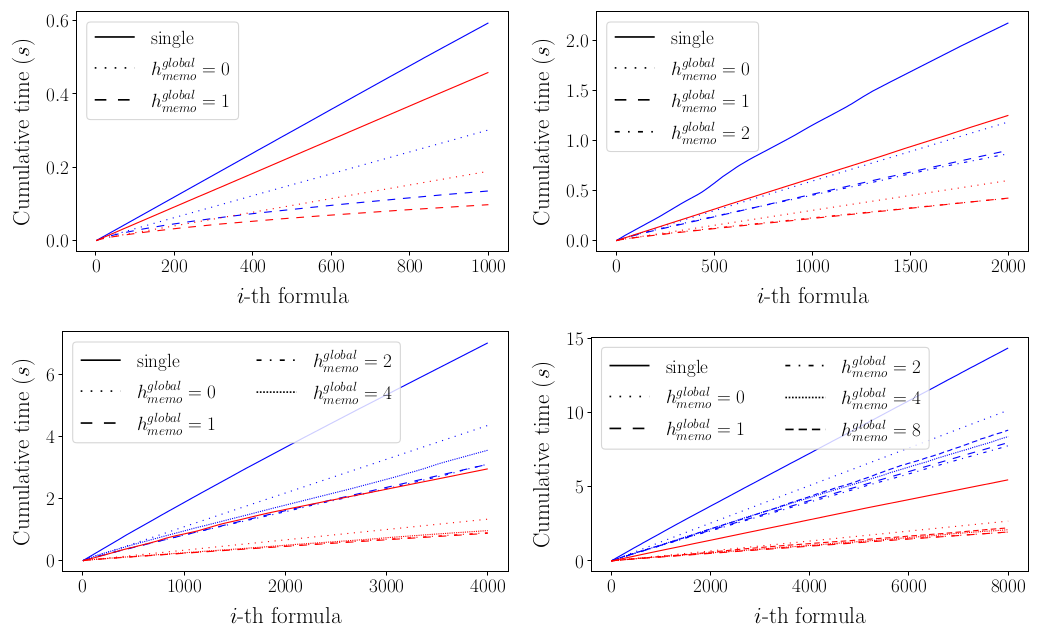
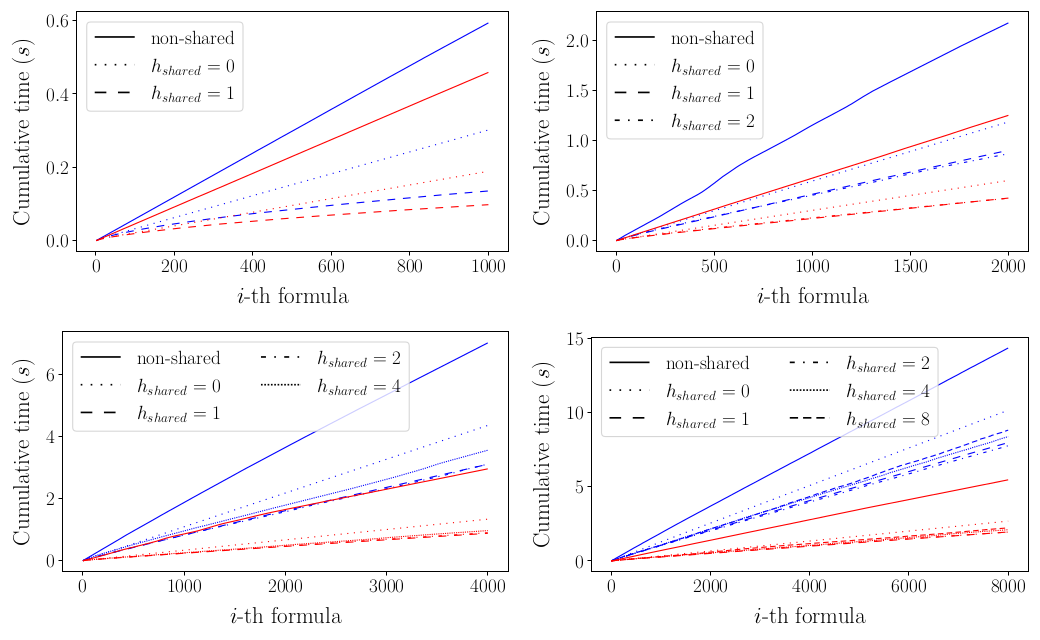
Minor changes

diff --git a/outcomes/csv/plotter.py b/outcomes/csv/plotter.py
@@ -43,7 +43,7 @@ colors = ['b', 'r', 'c', 'm', 'y', 'k']
 ###########################################################
 #                        Plotting                         #
 ###########################################################
-def export_plot(data, x, n_pr, linestyles, colors, memo_values, prun_values, export_name, legend_ncol):
+def export_plot(data, n_formulas, n_pr, linestyles, colors, memo_values, prun_values, export_name, legend_ncol):
     plt.figure(figsize=(6.5, 4), dpi=80)
     
     # For each pruning factor (thus, for each specified csv)
@@ -55,7 +55,7 @@ def export_plot(data, x, n_pr, linestyles, colors, memo_values, prun_values, exp
             # Draw a line representing the cumulated time 
             # to model-checking until some n-th formula
             plt.plot(
-                np.linspace(1,ncols,x),
+                np.linspace(1,ncols,n_formulas),
                 data[i].cumsum(axis=1)[row],
                 linestyle=linestyles[row][1],
                 color=colors[i],
@@ -79,13 +79,13 @@ def export_plot(data, x, n_pr, linestyles, colors, memo_values, prun_values, exp
 #                           Main                          #
 ###########################################################
 if __name__ == '__main__':
-    memo_values = ["single", "${}$".format("h_{memo}^{global}=0"), "${}$".format("h_{memo}^{global}=1"), "${}$".format("h_{memo}^{global}=2"), "${}$".format("h_{memo}^{global}=4"), "${}$".format("h_{memo}^{global}=8")]
+    memo_values = ["non-shared", "${}$".format("h_{shared}=0"), "${}$".format("h_{shared}=1"), "${}$".format("h_{shared}=2"), "${}$".format("h_{shared}=4"), "${}$".format("h_{shared}=8")]
     prun_values  = ["0.2", "0.5"]
 
-    export_name = "Insert filename here, including the extension (e.g .png or .pgf)"
-    x = 1000
-    first_set  = "50_16_1/50.0_20.0_16.0_1.0_1000.0_0.2_1000.0_1.0.csv" #csv with 0.2 pruning factor
-    second_set = "50_16_1/50.0_20.0_16.0_1.0_1000.0_0.5_1000.0_1.0.csv" #csv with 0.5 pruning factor
+    export_name = "INSERT FILENAME HERE (including the extension, e.g .png or .pgf)"
+    n_formulas = 1000 
+    first_set  = "50_16_1/50.0_20.0_16.0_1.0_1000.0_0.2_1000.0_1.0.csv" # csv with 0.2 pruning factor
+    second_set = "50_16_1/50.0_20.0_16.0_1.0_1000.0_0.5_1000.0_1.0.csv" # csv with 0.5 pruning factor
     data = [pd.read_csv(first_set, header=None), pd.read_csv(second_set, header=None)]
     data = [np.array(data[0]), np.array(data[1])]
-    export_plot(data, x, len(prun_values), linestyles, colors, memo_values, prun_values, export_name + format, legend_ncol=1)
+    export_plot(data, n_formulas, len(prun_values), linestyles, colors, memo_values, prun_values, export_name + format, legend_ncol=1)
